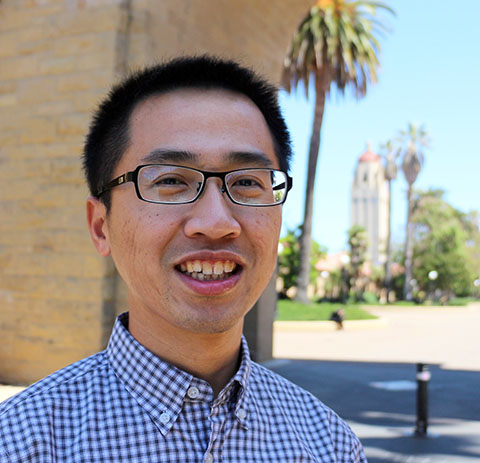
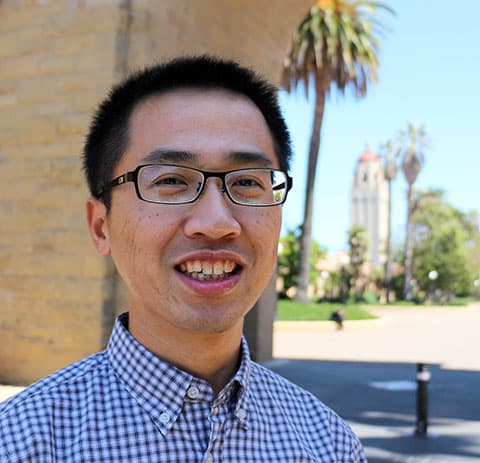
update css

diff --git a/index.html b/index.html
@@ -1,172 +1,182 @@
 <!DOCTYPE html>
+
 <html lang="en">
 <head>
   <meta charset="UTF-8">
-  <meta name="author" content="Li-Cheng Tsai">
-  <meta name="description" content="Li-Cheng Tsai is an Assistant Professor of Mathematics at Rutgers University, New Brunswick, NJ">
   <meta name="viewport" content="width=device-width, initial-scale=1.0">
+  <meta name="author" content="Li-Cheng Tsai">
+  <meta name="description" content="Li-Cheng Tsai is an Assistant Professor of Mathematics at Rutgers University, New Brunswick, New Jersey, with a research interest in probability theory.">
   <meta name="google-site-verification" content="xG-l7rWq36OS9vqAf71f9M4gEM4nH69dB1h0AYpcY3E" />
   <title>Li-Cheng Tsai | Rutgers University</title>
   <link rel="preconnect" href="https://fonts.gstatic.com">
   <link href="https://fonts.googleapis.com/css2?family=Open+Sans:wght@400;700&display=swap" rel="stylesheet">
-  <link rel="stylesheet" href="https://unpkg.com/purecss@2.0.6/build/pure-min.css" integrity="sha384-Uu6IeWbM+gzNVXJcM9XV3SohHtmWE+3VGi496jvgX1jyvDTXfdK+rfZc8C1Aehk5" crossorigin="anonymous">
-  <link rel="stylesheet" href="https://unpkg.com/purecss@2.0.6/build/grids-responsive-min.css" />
+  <link rel="stylesheet" href="https://cdnjs.cloudflare.com/ajax/libs/pure/2.0.6/base.min.css" integrity="sha512-LuNflZud8JqmAW51BErW7CwyrjuWqD/fqpekzJAFoUOJpZDEYFLhRPXYByNe8Yy9Z8IAJAe6Alqo0ivJXWv5Hw==" crossorigin="anonymous" referrerpolicy="no-referrer" />
   <style>
-    html, button, input, select, textarea, .pure-g [class *= "pure-u"] {
+    html{
       font-family: "Open Sans", sans-serif;
       color: #333;
       line-height: 1.39;
     }
     a, a:hover{
-      color: #3366CC;
+      color: #36C;
       text-decoration: none;
     }
     a:hover{
-      border-bottom: 1px dashed #3366CC;
+      border-bottom: 1px dashed #36C;
     }
     .layout{
       margin-left: auto;
       margin-right: auto;
       max-width: 900px;
     }
-    .header {
-      padding: 1em 1em 0em 1em;
-      border-bottom: 1px solid #3366CC;
+    .header{
+      margin: 1em;
+    }
+    div.header{
+      float: left;
+      width: calc(100% - 200px - 4em);
+    }
+    figure.header{
+      float: right;
+      margin-top: 2.67em;
     }
     .content {
-      padding: 0.67em 1em 6em 1em;
-    }
-    li {
-      margin-bottom: 0.33em;
+      margin-top: 0.67em;
+      border-top: 1px solid #36C;
+      padding: 0.5em 1em 6em 1em;
+      clear: both;
     }
     h2 {
       margin-top: 1.5em;
     }
+    li {
+      margin-bottom: 0.33em;
+    }
     .pub li{
       margin-bottom: 0.6em;
     }
-    .print-header{
-      display:none;
-    }
-    @media print{
-      h1.picture{ display:none;}
-      .content {padding-top:0.3em;}
+    @media (max-width: 480px) {
+      figure.header{
+        float: none;
+        margin-top: 1em;
+      }
+      div.header{
+        float: none;
+        width: calc(100% - 2em);
+      }
     }
   </style>
 </head>
 
 <body>
-  <div class="layout">
-    <div class="pure-g header" itemscope itemtype ="http://schema.org/Person">
-      <div class="pure-u-1 pure-u-sm-2-3 pure-u-md-3-4">
-        <h1 itemprop="name">Li-Cheng Tsai</h1>
-        <p itemprop="jobTitle">Assistant Professor</p>
-        <p><span itemprop="affiliation" itemscope itemtype="http://schema.org/Organization">Department of Mathematics, Rutgers University &mdash; New Brunswick</span><br>
-           Rm 342 Hill Center, 110 Frelinghuysen Road, Piscataway, NJ 08854 USA
-        </p>
-        <p><b>Email</b>: <span itemprop="email">lctsai.math&#x40;gmail.com</span></p>
-      </div>
-      <div class="pure-u-1 pure-u-sm-1-3 pure-u-md-1-4">
-        <h1 class="picture"><img alt="Picture of Li-Cheng Tsai" class="pure-img" src="profile.jpg" itemprop="image" /></h1>
-      </div>
+  <div class="layout" itemscope itemtype ="http://schema.org/Person">
+    <div class="header">
+      <h1 itemprop="name">Li&#8209;Cheng Tsai</h1>
+      <p itemprop="jobTitle">Assistant Professor</p>
+      <p><span itemprop="affiliation" itemscope itemtype="http://schema.org/Organization">Department of Mathematics, Rutgers University&ndash;New Brunswick</span><br>
+          Rm 342 Hill Center, 110 Frelinghuysen Road, Piscataway, NJ 08854, USA
+      </p>
+      <p><b>Email</b>: <span itemprop="email">lctsai.math&#x40;gmail.com</span></p>
     </div>
-    <div class="pure-g content">
-      <div class="pure-u-1">
-        <p>My <a href="cv-tsai.pdf">curriculum vitae</a>.</p>
-        <p>I am an assistant professor in the <a href="https://www.math.rutgers.edu/">Department of Mathematics</a>, <a href="https://newbrunswick.rutgers.edu/">Rutgers University &mdash; New Brunswick</a>.
-        <p>I obtained my Ph.D. in Mathematics at Stanford University in 2016, 
-          and conducted postdoctoral research at Columbia University as a <a href="https://www.simonsfoundation.org/team/li-cheng-tsai/">Junior Fellow</a> of the <a href="https://www.simonsfoundation.org/simons-society-of-fellows/">Simons Society of Fellows</a>, from 2016 to 2019.
-        <p>My research interest lies in probability theory, particularly asymptotic behaviors of large interacting particle systems,
-           with a focus on their interplay between partial differential equations, stochastic partial differential equations, and integrable probability.
-        </p>
-        <h2>Awards</h2>
-        <ul>
-          <li>Awardee, <a href="http://www.bernoulli-society.org/index.php/prizes/15-features/278-past-new-researcher">Bernoulli Society New Researcher Award</a>, 2020</li>
-          <li>NSF Grant $149k (<a href="https://www.nsf.gov/awardsearch/showAward?AWD_ID=1712575">DMS-1712575</a>, <a href="https://www.nsf.gov/awardsearch/showAward?AWD_ID=1953407">DMS-1953407</a>), 2017&ndash;20, extended to 2022</li>
-          <li>Junior Fellow, <a href="https://www.simonsfoundation.org/simons-society-of-fellows/">Simons Society of Fellows</a>, 2016</li>
-          <li>Graduate Fellow, Kavli Institute for Theoretical Physics, 2015</li>
-        </ul>
-        <h2>Publications</h2>
-        <p>See also <a href="https://scholar.google.com/citations?user=Bnl86-MAAAAJ">Google Scholar</a>.</p>
-        <h4>Preprint</h4>
-        <ol class="pub" reversed start="24">
-          <li><span class="title">KPZ equation with a small noise, deep upper tail and limit shape</span> [<a href="https://arxiv.org/abs/2106.13313">arXiv</a>]<br>
-           with Pierre Yves Gaudreau Lamarre and Yier Lin. </li>
-          
-          <li><span class="title">Hydrodynamic large deviations of TASEP</span> [<a href="https://arxiv.org/abs/2104.04444">arXiv</a>]<br>
-           with Jeremy Quastel. </li>
-                        
-        </ol>
-        <h4>Published / To appear</h4>
-        <ol class="pub" reversed>
-          <li><span class="title">Exact lower tail large deviations of the KPZ equation</span> [<a href="https://arxiv.org/abs/1809.03410">arXiv</a>]<br>
-           To appear in Duke Math. J.</li>
-          
-          <li><span class="title">Short time large deviations of the KPZ equation</span> [<a href="https://arxiv.org/abs/2009.10787">arXiv</a>]<br>
-            with Yier Lin. To appear in <a href="https://doi.org/10.1007/s00220-021-04050-w">Comm. Math. Phys.</a></li> 
-          
-          <li><span class="title">Fractional moments of the Stochastic Heat Equation</span> [<a href="https://arxiv.org/abs/1910.09271">arXiv</a>]<br>
-            with Sayan Das. <a href="https://dx.doi.org/10.1214/20-AIHP1095">Ann. Inst. Henri Poincare (B) Probab. Stat. 57(2) 778&ndash;799, 2021</a></li>
-          
-          <li><span class="title">Moments of the 2D SHE at criticality</span> [<a href="https://arxiv.org/abs/1905.11310">arXiv</a>]<br>
-            with Yu Gu and Jeremy Quastel. <a href="https://doi.org/10.2140/pmp.2021.2.179">Probability and Mathematical Physics 2(1) 179&ndash;219, 2021</a></li>              
+    <figure class="header">
+      <img alt="Picture of Li-Cheng Tsai" class="pure-img" src="profile.jpg" itemprop="image"
+      srcset="profile.jpg 480w, profile_200.jpg 200w" sizes="(max-width: 480px) 100vw, 200px"/>
+    </figure>
+    <div class="content">
+      <p>My <a href="cv-tsai.pdf">curriculum vitae</a>.</p>
+      <p>I am an assistant professor in the <a href="https://www.math.rutgers.edu/">Department of Mathematics</a>, <a href="https://newbrunswick.rutgers.edu/">Rutgers University&ndash;New Brunswick</a>, New Jersey.
+      <p>I obtained my Ph.D. in Mathematics at Stanford University in 2016. From 2016 to 2019,
+        I conducted postdoctoral research at Columbia University as a <a href="https://www.simonsfoundation.org/team/li-cheng-tsai/">Junior Fellow</a> of the <a href="https://www.simonsfoundation.org/simons-society-of-fellows/">Simons Society of Fellows</a>.
+      <p>My research interest lies in probability theory, particularly asymptotic behaviors of large interacting particle systems,
+          with a focus on their interplay between partial differential equations, stochastic partial differential equations, and integrable probability.
+      </p>
+      <h2 id="awards">Awards</h2>
+      <ul>
+        <li>Awardee, <a href="http://www.bernoulli-society.org/index.php/prizes/15-features/278-past-new-researcher">Bernoulli Society New Researcher Award</a>, 2020</li>
+        <li>NSF Grant $149k (<a href="https://www.nsf.gov/awardsearch/showAward?AWD_ID=1712575">DMS-1712575</a>, <a href="https://www.nsf.gov/awardsearch/showAward?AWD_ID=1953407">DMS-1953407</a>), 2017&ndash;20, extended to 2022</li>
+        <li>Junior Fellow, <a href="https://www.simonsfoundation.org/simons-society-of-fellows/">Simons Society of Fellows</a>, 2016</li>
+        <li>Graduate Fellow, Kavli Institute for Theoretical Physics, 2015</li>
+      </ul>
+      <h2 id="publications">Publications</h2>
+      <p>See also <a href="https://scholar.google.com/citations?user=Bnl86-MAAAAJ">Google Scholar</a>.</p>
+      <h4 id="preprint">Preprint</h4>
+      <ol class="pub" reversed start="24">
+        <li><span class="title">KPZ equation with a small noise, deep upper tail and limit shape</span> [<a href="https://arxiv.org/abs/2106.13313">arXiv</a>]<br>
+          with Pierre Yves Gaudreau Lamarre and Yier Lin. </li>
 
-          <li><span class="title">SPDE Limit of Weakly Inhomogeneous ASEP</span> [<a href="https://arxiv.org/abs/1806.09682">arXiv</a>]<br>
-            with Ivan Corwin. <a href="https://doi.org/10.1214/20-EJP565">Electron. J. Probab. 25 1&ndash;55, 2020</a></li>          
-                  
-          <li><span class="title">Stochastic PDE Limit of the Six Vertex Model</span> [<a href="https://arxiv.org/abs/1803.08120">arXiv</a>]<br>
-            with Ivan Corwin, Promit Ghosal, and Hao Shen. <a href="https://dx.doi.org/10.1007/s00220-019-03678-z">Comm. Math. Phys. 375 1945&ndash;2038, 2020</a></li>
-          
-          <li><span class="title">Another look into the Wong-Zakai Theorem for Stochastic Heat Equation</span> [<a href="https://arxiv.org/abs/1801.09164">arXiv</a>][<a href="http://www.ams.org/mathscinet-getitem?mr=4019882">MR</a>]<br>
-            with Yu Gu. <a href="https://doi.org/10.1214/19-AAP1474">Ann. Appl. Probab. 29(5) 3037&ndash;3061, 2019</a></li>
+        <li><span class="title">Hydrodynamic large deviations of TASEP</span> [<a href="https://arxiv.org/abs/2104.04444">arXiv</a>]<br>
+          with Jeremy Quastel. </li>
 
-          <li><span class="title">Stochastic Telegraph Equation Limit for the Stochastic Six Vertex Model</span> [<a href="https://arxiv.org/abs/1807.04678">arXiv</a>][<a href="http://www.ams.org/mathscinet-getitem?mr=3951443">MR</a>]<br>
-            with Hao Shen. <a href="https://doi.org/10.1090/proc/14415">Proceedings of the AMS 147(6) 2685&ndash;2705, 2019</a></li>
+      </ol>
+      <h4 id="published">Published / To appear</h4>
+      <ol class="pub" reversed>
+        <li><span class="title">Exact lower tail large deviations of the KPZ equation</span> [<a href="https://arxiv.org/abs/1809.03410">arXiv</a>]<br>
+          To appear in Duke Math. J.</li>
 
-          <li><span class="title">Exceedingly Large Deviations of the Totally Asymmetric Exclusion Process</span> [<a href="https://arxiv.org/abs/1708.07052">arXiv</a>][<a href="http://www.ams.org/mathscinet-getitem?mr=3916336">MR</a>]<br>
-            with Stefano Olla. <a href="https://doi.org/10.1214/19-EJP278">Electron. J. Probab. 24(16) 1&ndash;71, 2019</a></li>
+        <li><span class="title">Short time large deviations of the KPZ equation</span> [<a href="https://arxiv.org/abs/2009.10787">arXiv</a>]<br>
+          with Yier Lin. To appear in <a href="https://doi.org/10.1007/s00220-021-04050-w">Comm. Math. Phys.</a></li>
 
-          <li><span class="title">Criticality of a randomly-driven front</span> [<a href="https://arxiv.org/abs/1705.10017">arXiv</a>][<a href="https://link.springer.com/epdf/10.1007/s00205-019-01365-w?author_access_token=Pl5jtngUmg25Zqmev8zHXfe4RwlQNchNByi7wbcMAY7fLiZ-l20PBtAXSxblsOy0vzQn6aQ-Y6d9FVQzzvSmdEL5fuiSooYwkL0yCtAGjOE49Mi9zPqdfymZAupIN8DICMYRnCVwqsREw07-x_YNvg%3D%3D">SharedIt</a>][<a href="http://www.ams.org/mathscinet-getitem?mr=3951690">MR</a>]<br>
-            with Amir Dembo. <a href="https://doi.org/10.1007/s00205-019-01365-w">Arch. Rational Mech. Anal. 233(2), 643&ndash;699, 2019</a></li>
+        <li><span class="title">Fractional moments of the Stochastic Heat Equation</span> [<a href="https://arxiv.org/abs/1910.09271">arXiv</a>]<br>
+          with Sayan Das. <a href="https://dx.doi.org/10.1214/20-AIHP1095">Ann. Inst. Henri Poincare (B) Probab. Stat. 57(2) 778&ndash;799, 2021</a></li>
 
-          <li><span class="title">Coulomb-gas electrostatics controls large fluctuations of the KPZ equation</span> [<a href="https://arxiv.org/abs/1803.05887">arXiv</a>]<br>
-            with Ivan Corwin, Promit Ghosal, Alexandre Krajenbrink, and Pierre Le Doussal.<br>
-            <a href="https://doi.org/10.1103/PhysRevLett.121.060201">Phys. Rev. Lett. 121(6) 060201, 2018</a></li>
+        <li><span class="title">Moments of the 2D SHE at criticality</span> [<a href="https://arxiv.org/abs/1905.11310">arXiv</a>]<br>
+          with Yu Gu and Jeremy Quastel. <a href="https://doi.org/10.2140/pmp.2021.2.179">Probability and Mathematical Physics 2(1) 179&ndash;219, 2021</a></li>
 
-          <li><span class="title">Stationary Distributions of the Atlas Model</span> [<a href="https://arxiv.org/abs/1702.02043">arXiv</a>][<a href="http://www.ams.org/mathscinet-getitem?mr=3771768">MR</a>]<br>
-             <a href="https://dx.doi.org/10.1214/18-ECP112">Electron. C. Probab. 23(10) 1&ndash;10, 2018</a></li>
+        <li><span class="title">SPDE Limit of Weakly Inhomogeneous ASEP</span> [<a href="https://arxiv.org/abs/1806.09682">arXiv</a>]<br>
+          with Ivan Corwin. <a href="https://doi.org/10.1214/20-EJP565">Electron. J. Probab. 25 1&ndash;55, 2020</a></li>
 
-          <li><span class="title">ASEP(q,j) converges to the KPZ equation</span> [<a href="https://arxiv.org/abs/1602.01908">arXiv</a>][<a href="http://www.ams.org/mathscinet-getitem?mr=3795074">MR</a>]<br>
-            with Ivan Corwin and Hao Shen. <a href="https://dx.doi.org/10.1214/17-AIHP829">Ann. Inst. Henri Poincare (B) Probab. Stat. 54(2) 995&ndash;1012, 2018</a></li>
+        <li><span class="title">Stochastic PDE Limit of the Six Vertex Model</span> [<a href="https://arxiv.org/abs/1803.08120">arXiv</a>]<br>
+          with Ivan Corwin, Promit Ghosal, and Hao Shen. <a href="https://dx.doi.org/10.1007/s00220-019-03678-z">Comm. Math. Phys. 375 1945&ndash;2038, 2020</a></li>
 
-          <li><span class="title">Optimal Surviving Strategy for Drifted Brownian Motions with Absorption</span> [<a href="https://arxiv.org/abs/1512.04493">arXiv</a>][<a href="http://www.ams.org/mathscinet-getitem?mr=3785596">MR</a>]<br>
-            with Wenpin Tang. <a href="https://dx.doi.org/10.1214/17-AOP1211">Ann. Prob. 46(3) 1597&ndash;1650, 2018</a></li>
+        <li><span class="title">Another look into the Wong-Zakai Theorem for Stochastic Heat Equation</span> [<a href="https://arxiv.org/abs/1801.09164">arXiv</a>][<a href="http://www.ams.org/mathscinet-getitem?mr=4019882">MR</a>]<br>
+          with Yu Gu. <a href="https://doi.org/10.1214/19-AAP1474">Ann. Appl. Probab. 29(5) 3037&ndash;3061, 2019</a></li>
 
-          <li><span class="title">Stationary Gap Distributions for Infinite Systems of Competing Brownian Particles</span> [<a href="https://arxiv.org/abs/1608.00628">arXiv</a>][<a href="http://www.ams.org/mathscinet-getitem?mr=3672832">MR</a>]<br>
-            with Andrey Sarantsev. <a href="https://dx.doi.org/10.1214/17-EJP78">Electron. J. Probab. 22(56) 1&ndash;20, 2017</a></li>
+        <li><span class="title">Stochastic Telegraph Equation Limit for the Stochastic Six Vertex Model</span> [<a href="https://arxiv.org/abs/1807.04678">arXiv</a>][<a href="http://www.ams.org/mathscinet-getitem?mr=3951443">MR</a>]<br>
+          with Hao Shen. <a href="https://doi.org/10.1090/proc/14415">Proceedings of the AMS 147(6) 2685&ndash;2705, 2019</a></li>
 
-          <li><span class="title">Equilibrium Fluctuation of the Atlas Model</span> [<a href="https://arxiv.org/abs/1503.03581">arXiv</a>][<a href="http://www.ams.org/mathscinet-getitem?mr=3737917">MR</a>]<br>
-            with Amir Dembo. <a href="https://dx.doi.org/10.1214/16-AOP1171">Ann. Prob. 45(6B) 4529&ndash;4560, 2017</a></li>
+        <li><span class="title">Exceedingly Large Deviations of the Totally Asymmetric Exclusion Process</span> [<a href="https://arxiv.org/abs/1708.07052">arXiv</a>][<a href="http://www.ams.org/mathscinet-getitem?mr=3916336">MR</a>]<br>
+          with Stefano Olla. <a href="https://doi.org/10.1214/19-EJP278">Electron. J. Probab. 24(16) 1&ndash;71, 2019</a></li>
 
-          <li><span class="title">KPZ equation limit of higher-spin exclusion processes</span> [<a href="https://arxiv.org/abs/1505.04158">arXiv</a>][<a href="http://www.ams.org/mathscinet-getitem?mr=3650415">MR</a>]<br>
-            with Ivan Corwin. <a href="https://dx.doi.org/10.1214/16-AOP1101">Ann. Prob. 45(3) 1771&ndash;1798, 2017</a></li>
+        <li><span class="title">Criticality of a randomly-driven front</span> [<a href="https://arxiv.org/abs/1705.10017">arXiv</a>][<a href="https://link.springer.com/epdf/10.1007/s00205-019-01365-w?author_access_token=Pl5jtngUmg25Zqmev8zHXfe4RwlQNchNByi7wbcMAY7fLiZ-l20PBtAXSxblsOy0vzQn6aQ-Y6d9FVQzzvSmdEL5fuiSooYwkL0yCtAGjOE49Mi9zPqdfymZAupIN8DICMYRnCVwqsREw07-x_YNvg%3D%3D">SharedIt</a>][<a href="http://www.ams.org/mathscinet-getitem?mr=3951690">MR</a>]<br>
+          with Amir Dembo. <a href="https://doi.org/10.1007/s00205-019-01365-w">Arch. Rational Mech. Anal. 233(2), 643&ndash;699, 2019</a></li>
 
-          <li><span class="title">Infinite Dimensional Stochastic Differential Equations for Dyson's Model</span> [<a href="https://arxiv.org/abs/1405.6692">arXiv</a>][<a href="https://link.springer.com/epdf/10.1007/s00440-015-0672-2?author_access_token=TsF5MP7abKY7oTQZYEnnuPe4RwlQNchNByi7wbcMAY4Rgw1QlrbGoxVE0SLELXkx32ck0w0xJYtJOIr7eJQY9ylIgGH_pa1RZ1rKO8g-LP_lteGr9NQ-2F1XG1-CHqP1MxsyQdPCSfU-aAvuDALuKA%3D%3D">SharedIt</a>][<a href="http://www.ams.org/mathscinet-getitem?mr=3568040">MR</a>]<br>
-            <a href="https://dx.doi.org/10.1007/s00440-015-0672-2">Probab. Theory Related Fields. 166(3) 801&ndash;850, 2016</a></li>
+        <li><span class="title">Coulomb-gas electrostatics controls large fluctuations of the KPZ equation</span> [<a href="https://arxiv.org/abs/1803.05887">arXiv</a>]<br>
+          with Ivan Corwin, Promit Ghosal, Alexandre Krajenbrink, and Pierre Le Doussal.<br>
+          <a href="https://doi.org/10.1103/PhysRevLett.121.060201">Phys. Rev. Lett. 121(6) 060201, 2018</a></li>
 
-          <li><span class="title">Weakly asymmetric non-simple exclusion process and the KPZ equation</span> [<a href="https://arxiv.org/abs/1302.5760">arXiv</a>][<a href="http://www.ams.org/mathscinet-getitem?mr=3439226">MR</a>]<br>
-            with Amir Dembo. <a href="https://dx.doi.org/10.1007/s00220-015-2527-1">Comm. Math. Phys. 341(1) 219&ndash;261, 2016</a></li>
+        <li><span class="title">Stationary Distributions of the Atlas Model</span> [<a href="https://arxiv.org/abs/1702.02043">arXiv</a>][<a href="http://www.ams.org/mathscinet-getitem?mr=3771768">MR</a>]<br>
+            <a href="https://dx.doi.org/10.1214/18-ECP112">Electron. C. Probab. 23(10) 1&ndash;10, 2018</a></li>
 
-          <li><span class="title">Equilibrating effects of boundary and collision in rarefied gases</span> [<a href="http://www.ams.org/mathscinet-getitem?mr=3199988">MR</a>]<br>
-            with Hung-Wen Kuo and Tai-Ping Liu. <a href="https://dx.doi.org/10.1007/s00220-014-2042-9">Comm. Math. Phys. 328(2) 421&ndash;480, 2014</a></li>
+        <li><span class="title">ASEP(q,j) converges to the KPZ equation</span> [<a href="https://arxiv.org/abs/1602.01908">arXiv</a>][<a href="http://www.ams.org/mathscinet-getitem?mr=3795074">MR</a>]<br>
+          with Ivan Corwin and Hao Shen. <a href="https://dx.doi.org/10.1214/17-AIHP829">Ann. Inst. Henri Poincare (B) Probab. Stat. 54(2) 995&ndash;1012, 2018</a></li>
 
-          <li><span class="title">Free molecular flow with boundary effect</span> [<a href="http://www.ams.org/mathscinet-getitem?mr=3020162">MR</a>]<br>
-            with Hung-Wen Kuo and Tai-Ping Liu. <a href="https://dx.doi.org/10.1007/s00220-013-1662-9">Comm. Math. Phys. 318(2) 375&ndash;409, 2013</a></li>
+        <li><span class="title">Optimal Surviving Strategy for Drifted Brownian Motions with Absorption</span> [<a href="https://arxiv.org/abs/1512.04493">arXiv</a>][<a href="http://www.ams.org/mathscinet-getitem?mr=3785596">MR</a>]<br>
+          with Wenpin Tang. <a href="https://dx.doi.org/10.1214/17-AOP1211">Ann. Prob. 46(3) 1597&ndash;1650, 2018</a></li>
 
-          <li><span class="title">Viscous shock propagation with boundary effect</span> [<a href="http://www.ams.org/mathscinet-getitem?mr=2850085">MR</a>]<br>
-            <a href="http://web.math.sinica.edu.tw/bulletin/archives_articlecontent16.jsp?bid=MjAxMTEwMQ==">Bull. Inst. Math. Acad. Sin. (N.S.) 6(1) 1&ndash;25, 2011</a> </li>
-        </ol>
-      </div>
+        <li><span class="title">Stationary Gap Distributions for Infinite Systems of Competing Brownian Particles</span> [<a href="https://arxiv.org/abs/1608.00628">arXiv</a>][<a href="http://www.ams.org/mathscinet-getitem?mr=3672832">MR</a>]<br>
+          with Andrey Sarantsev. <a href="https://dx.doi.org/10.1214/17-EJP78">Electron. J. Probab. 22(56) 1&ndash;20, 2017</a></li>
+
+        <li><span class="title">Equilibrium Fluctuation of the Atlas Model</span> [<a href="https://arxiv.org/abs/1503.03581">arXiv</a>][<a href="http://www.ams.org/mathscinet-getitem?mr=3737917">MR</a>]<br>
+          with Amir Dembo. <a href="https://dx.doi.org/10.1214/16-AOP1171">Ann. Prob. 45(6B) 4529&ndash;4560, 2017</a></li>
+
+        <li><span class="title">KPZ equation limit of higher-spin exclusion processes</span> [<a href="https://arxiv.org/abs/1505.04158">arXiv</a>][<a href="http://www.ams.org/mathscinet-getitem?mr=3650415">MR</a>]<br>
+          with Ivan Corwin. <a href="https://dx.doi.org/10.1214/16-AOP1101">Ann. Prob. 45(3) 1771&ndash;1798, 2017</a></li>
+
+        <li><span class="title">Infinite Dimensional Stochastic Differential Equations for Dyson's Model</span> [<a href="https://arxiv.org/abs/1405.6692">arXiv</a>][<a href="https://link.springer.com/epdf/10.1007/s00440-015-0672-2?author_access_token=TsF5MP7abKY7oTQZYEnnuPe4RwlQNchNByi7wbcMAY4Rgw1QlrbGoxVE0SLELXkx32ck0w0xJYtJOIr7eJQY9ylIgGH_pa1RZ1rKO8g-LP_lteGr9NQ-2F1XG1-CHqP1MxsyQdPCSfU-aAvuDALuKA%3D%3D">SharedIt</a>][<a href="http://www.ams.org/mathscinet-getitem?mr=3568040">MR</a>]<br>
+          <a href="https://dx.doi.org/10.1007/s00440-015-0672-2">Probab. Theory Related Fields. 166(3) 801&ndash;850, 2016</a></li>
+
+        <li><span class="title">Weakly asymmetric non-simple exclusion process and the KPZ equation</span> [<a href="https://arxiv.org/abs/1302.5760">arXiv</a>][<a href="http://www.ams.org/mathscinet-getitem?mr=3439226">MR</a>]<br>
+          with Amir Dembo. <a href="https://dx.doi.org/10.1007/s00220-015-2527-1">Comm. Math. Phys. 341(1) 219&ndash;261, 2016</a></li>
+
+        <li><span class="title">Equilibrating effects of boundary and collision in rarefied gases</span> [<a href="http://www.ams.org/mathscinet-getitem?mr=3199988">MR</a>]<br>
+          with Hung-Wen Kuo and Tai-Ping Liu. <a href="https://dx.doi.org/10.1007/s00220-014-2042-9">Comm. Math. Phys. 328(2) 421&ndash;480, 2014</a></li>
+
+        <li><span class="title">Free molecular flow with boundary effect</span> [<a href="http://www.ams.org/mathscinet-getitem?mr=3020162">MR</a>]<br>
+          with Hung-Wen Kuo and Tai-Ping Liu. <a href="https://dx.doi.org/10.1007/s00220-013-1662-9">Comm. Math. Phys. 318(2) 375&ndash;409, 2013</a></li>
+
+        <li><span class="title">Viscous shock propagation with boundary effect</span> [<a href="http://www.ams.org/mathscinet-getitem?mr=2850085">MR</a>]<br>
+          <a href="http://web.math.sinica.edu.tw/bulletin/archives_articlecontent16.jsp?bid=MjAxMTEwMQ==">Bull. Inst. Math. Acad. Sin. (N.S.) 6(1) 1&ndash;25, 2011</a> </li>
+      </ol>
     </div>
   </div>
 </body>
